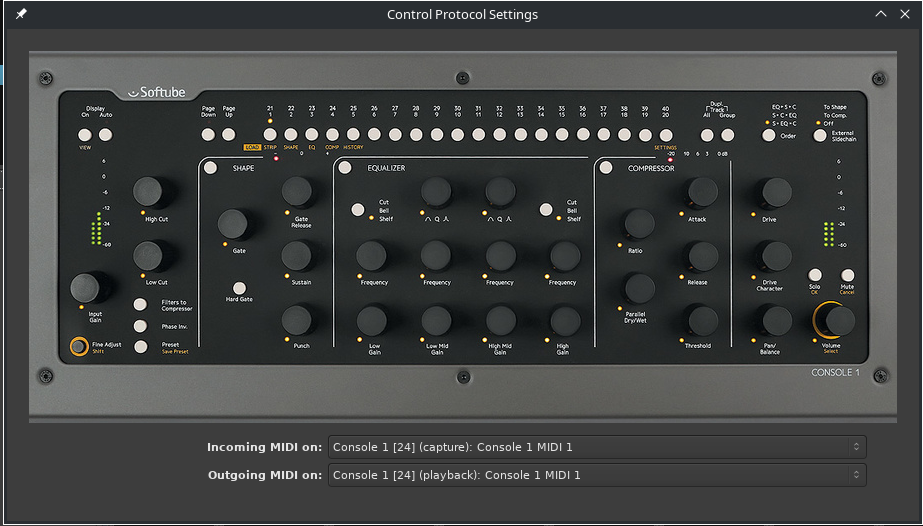
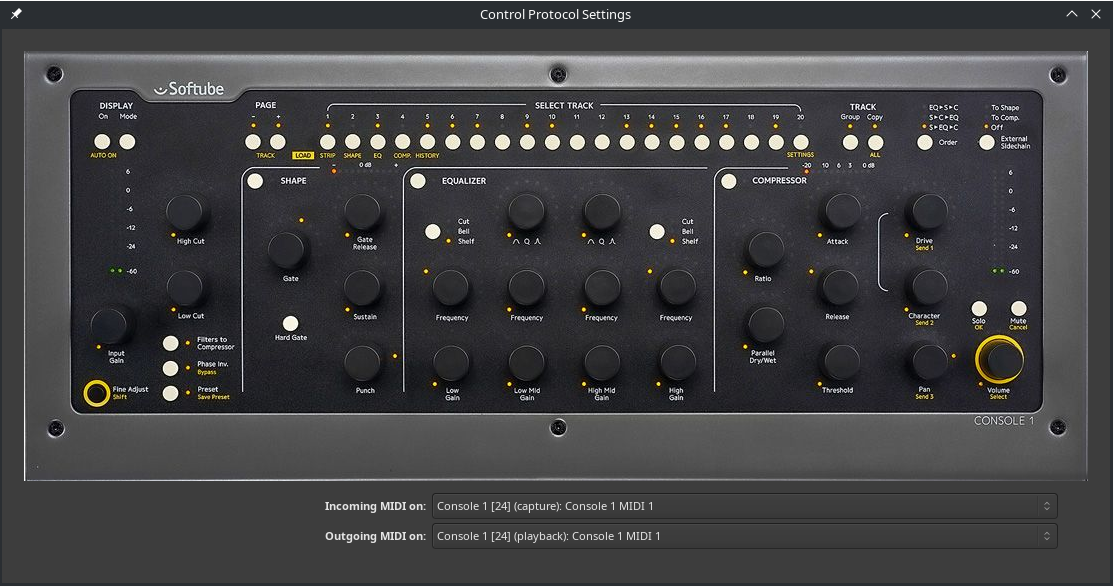
Documentation for Softube Console 1 Surface

diff --git a/include/using-the-softube-console1.html b/include/using-the-softube-console1.html
@@ -72,7 +72,7 @@
 <table class="dl">
   <tr> 
     <th><kbd class="button">On</kbd></th>
-    <td>Is lit when a channel is in solo mode and 
+    <td>Is lit when a mixer strip is in solo mode and 
     can disables all solo modes.<em>Rude Solo</em></td>
   </tr>
   <tr>
@@ -81,11 +81,11 @@
   </tr>
   <tr>
     <th><kbd class="button">Page Up</kbd> / <kbd class="button">Page Down</kbd></th>
-    <td>Switches 20 Channels up or down. Only lit if there is another page/bank<td>
+    <td>Switches 20 mixer strips up or down. Only lit if there is another page/bank<td>
   </tr>
   <tr>
     <th><kbd class="button">1</kbd>...<kbd class="button">20</kbd></th>
-    <td>Select the nth channel of the current bank.<em>The Master channel is always the last channel</em></td>
+    <td>Select the nth mixer strip of the current bank.<em>The Master channel is always the last mixer strip</em></td>
   </tr>
   <tr>
     <th><kbd class="button">Track Group</kbd>/<kbd class="button">Track Copy</kbd></th>
@@ -93,7 +93,7 @@
   </tr>
   <tr>
     <th><kbd class="button">Order</kbd></th>
-    <td>[Mixbus]Switches between the compressor modes: Leveler/Compressor/Limiter</td>
+    <td>[Mixbus]Switches between the compressor modes: Leveler/Compressor/Limiter &mdash; see Compressor section</td>
   </tr>
   <tr>
     <th><kbd class="button">External Sidechain</kbd></th>
@@ -116,7 +116,7 @@
     <td>[Mixbus]Low Cut</td>
   </tr>
   <tr>
-    <th><kbd class="button">Filter to Compresso</kbd></th>
+    <th><kbd class="button">Filter to Compressor</kbd></th>
     <td>[Mixbus]Filters on/off</td>
   </tr>
   <tr>
@@ -133,19 +133,19 @@
   </tr>
   <tr>
     <th><kbd class="button">Solo</kbd></th>
-    <td>Solo button for the channel</td>
+    <td>Solo button for the mixer strip</td>
   </tr>
   <tr>
     <th><kbd class="button">Mute</kbd></th>
-    <td>Mute button for the channel, blinks, when channel is muted due to another channels Solo-Mode</td>
+    <td>Mute button for the mixer strip, blinks, when the mixer strip is muted due to another mixer strips Solo-Mode</td>
   </tr>
   <tr>
     <th><kbd class="fader">Volume Meter</kbd></th>
-    <td>Shows the channel-volume</td>
+    <td>Shows the mixer strip volume</td>
   </tr>
   <tr>
     <th><kbd class="knob">Volume</kbd></th>
-    <td>Sets the channles volume</td>
+    <td>Sets the mixer strip volume</td>
   </tr>
 </table>
 
@@ -230,7 +230,7 @@
   </tr>
   <tr>
     <th><kbd class="knob">(Low Mid) Shape</kbd></th>
-    <td>[Ardour]The eleventh send of a channel / Send to the eleventh mixbus</td>
+    <td>[Ardour]The eleventh send of a mixer strip / Send to the eleventh mixbus</td>
   </tr>  
 
   <tr>
@@ -243,7 +243,7 @@
   </tr>
   <tr>
     <th><kbd class="knob">(High Mid) Shape</kbd></th>
-    <td>[Ardour]The twelfth send of a channel / Send to the twelfth mixbus
+    <td>[Ardour]The twelfth send of a mixer strip / Send to the twelfth mixbus
     (see section Mixbusses) </td>
   </tr>  
 
@@ -258,3 +258,103 @@
   
 </table>
 
+<h4>Compressor Section [Mixbus]</h4>
+<table class="dl">
+  <tr> 
+    <th><kbd class="button">Compressor</kbd></th>
+    <td>Switches the Compressor on or off</td>
+  </tr>
+  <tr>
+    <th><kbd class="fader">Compressor Meter</kbd></th>
+    <td>Shows the gain reduction of the leveler/compressor/limiter<td>
+  </tr>  
+  <tr>
+    <th><kbd class="button">Order</kbd></th>
+    <td><em>Above this section</em> Switches between the compressor modes: Leveler/Compressor/Limiter</td>
+  </tr>
+  <tr>
+    <th><kbd class="knob">Ratio</kbd></th>
+    <td>Ratio of the compressor<td>
+  </tr>  
+  <tr>
+    <th><kbd class="knob">Parallel Dry/Wet</kbd></th>
+    <td>Makeup gain of the compressor</td>
+  </tr>  
+  <tr>
+    <th><kbd class="knob">Attack</kbd></th>
+    <td>Attack time of the compressor<td>
+  </tr>  
+  <tr> 
+    <th><kbd class="button">Release</kbd></th>
+    <td>Release time of the compressor</td>
+  </tr>
+  <tr>
+    <th><kbd class="knob">Threshold</kbd></th>
+    <td>Threshold of the compressor</td>
+  </tr>  
+</table>
+
+<h4>Sends</h4>
+<div class="well">
+All Encoders in the equalizer-section are working as sends when 'shift' is selected.<br/>
+Additionally the Low-Mid and High-Mid shape encoders are sends to the mixbusses 
+eleven and twelfe. The Idea behind this is to have some common effects on this two 
+mixbusses which are accessible without 'shift'. Currently, this is focused on Mixbus. <br/>
+The functionality will be extended to fit better with Ardour in a second development phase.
+However, if a mixer strip in Ardour has sends to busses, these are accessible with the send encoders
+as well. These are numbered from top to bottom. The topmost send can be changed by 
+the send 1 encoder <kbd class="knob">Shift</kbd>+<kbd class="knob">(Low) Frequency</kbd>,
+the next send below by the send 2 encoder 
+<kbd class="knob">Shift</kbd>+<kbd class="knob">(Low Mid) Frequency</kbd> and so on.
+</div>
+<table class="dl">
+  <tr>
+    <th><kbd class="knob">Shift</kbd>+<kbd class="knob">(Low) Frequency</kbd></th>
+    <td>Send 1<td>
+  </tr>  
+  <tr>
+    <th><kbd class="knob">Shift</kbd>+<kbd class="knob">(Low Mid) Frequency</kbd></th>
+    <td>Send 2</td>
+  </tr>
+  <tr>
+    <th><kbd class="knob">Shift</kbd>+<kbd class="knob">(High Mid) Frequency</kbd></th>
+    <td>Send 3</td>
+  </tr>
+  <tr>
+    <th><kbd class="knob">Shift</kbd>+<kbd class="knob">(High) Frequency</kbd></th>
+    <td>Send 4</td>
+  </tr>  
+  <tr>
+    <th><kbd class="knob">Shift</kbd>+<kbd class="knob">Low Gain</kbd></th>
+    <td>Send 5</td>
+  </tr>  
+  <tr>
+    <th><kbd class="knob">Shift</kbd>+<kbd class="knob">Low Mid Gain</kbd></th>
+    <td>Send 6</td>
+  </tr>  
+  <tr>
+    <th><kbd class="knob">Shift</kbd>+<kbd class="knob">High Mid Gain</kbd></th>
+    <td>Send 7</td>
+  </tr>  
+  <tr>
+    <th><kbd class="knob">Shift</kbd>+<kbd class="knob">High Gain</kbd></th>
+    <td>Send 8</td>
+  </tr>  
+  <tr>
+    <th><kbd class="knob">Shift</kbd>+<kbd class="knob">(Low Mid) Shape</kbd></th>
+    <td>Send 9</td>
+  </tr>  
+  <tr>
+    <th><kbd class="knob">Shift</kbd>+<kbd class="knob">(High Mid) Shape</kbd></th>
+    <td>Send 10</td>
+  </tr>  
+  <tr>
+    <th><kbd class="knob">(Low Mid) Shape</kbd></th>
+    <td>Send 11</td>
+  </tr>  
+  <tr>
+    <th><kbd class="knob">(High Mid) Shape</kbd></th>
+    <td>Send 12</td>
+  </tr>  
+
+</table>  
